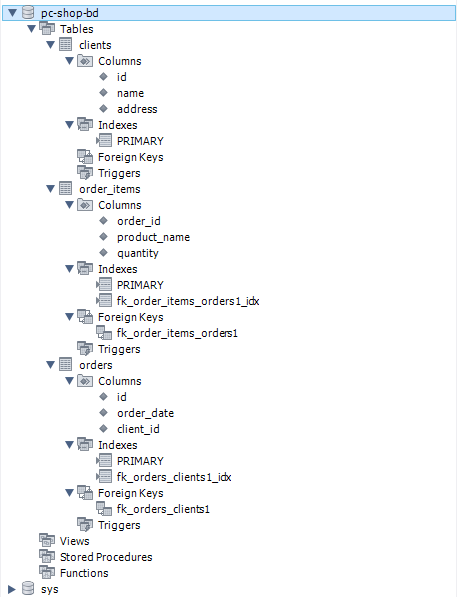
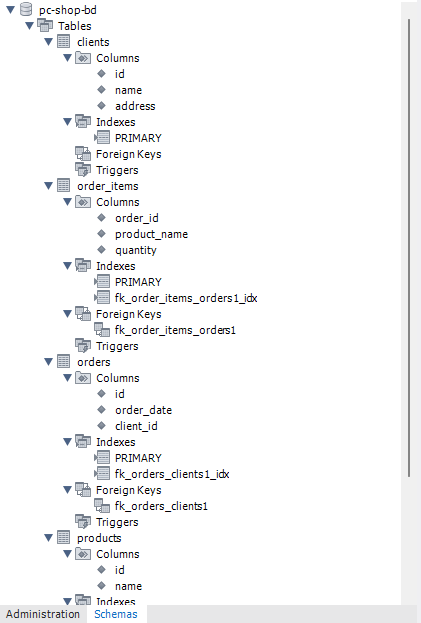
resolve comments

Changed region(s): [[0.0, 0.0, 1.0, 1.0]]

diff --git a/README.md b/README.md
@@ -37,9 +37,9 @@
 
 На фінальному етапі усунуто транзитивні залежності:
 
-- дані про клієнта (`client_name`, `client_address`) залежать від id замовлення не прямо, а через особу клієнта;
-- створено окрему таблицю `clients`;
-- у таблиці `orders` тепер зберігається лише `client_id` (зовнішній ключ), що виключає дублювання контактної інформації при повторних замовленнях.
+*Клієнти*: Винесені в окрему таблицю `clients`. Адреса та ім'я тепер не дублюються в таблиці замовлень.
+
+*Товари*: Назви товарів винесені в довідник `products`. В таблиці `order_items` зберігаються лише посилання на ID товару. Це дозволяє централізовано керувати каталогом товарів.
 
 ## ER-діаграма
 
